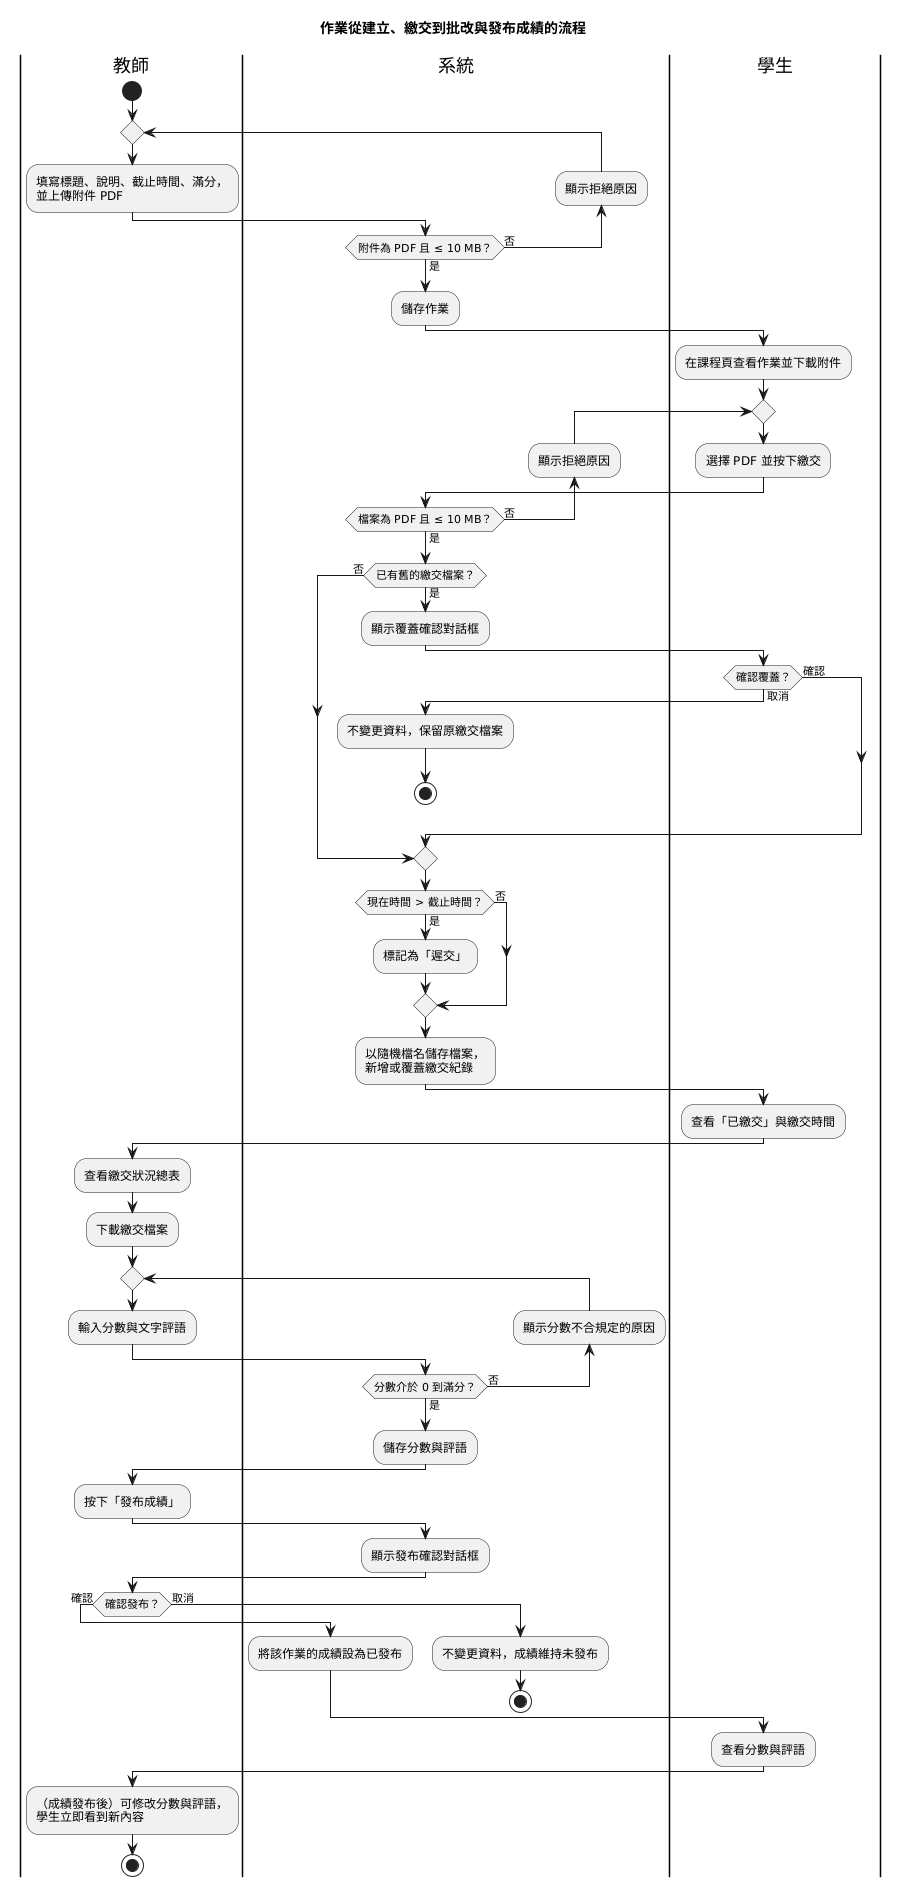
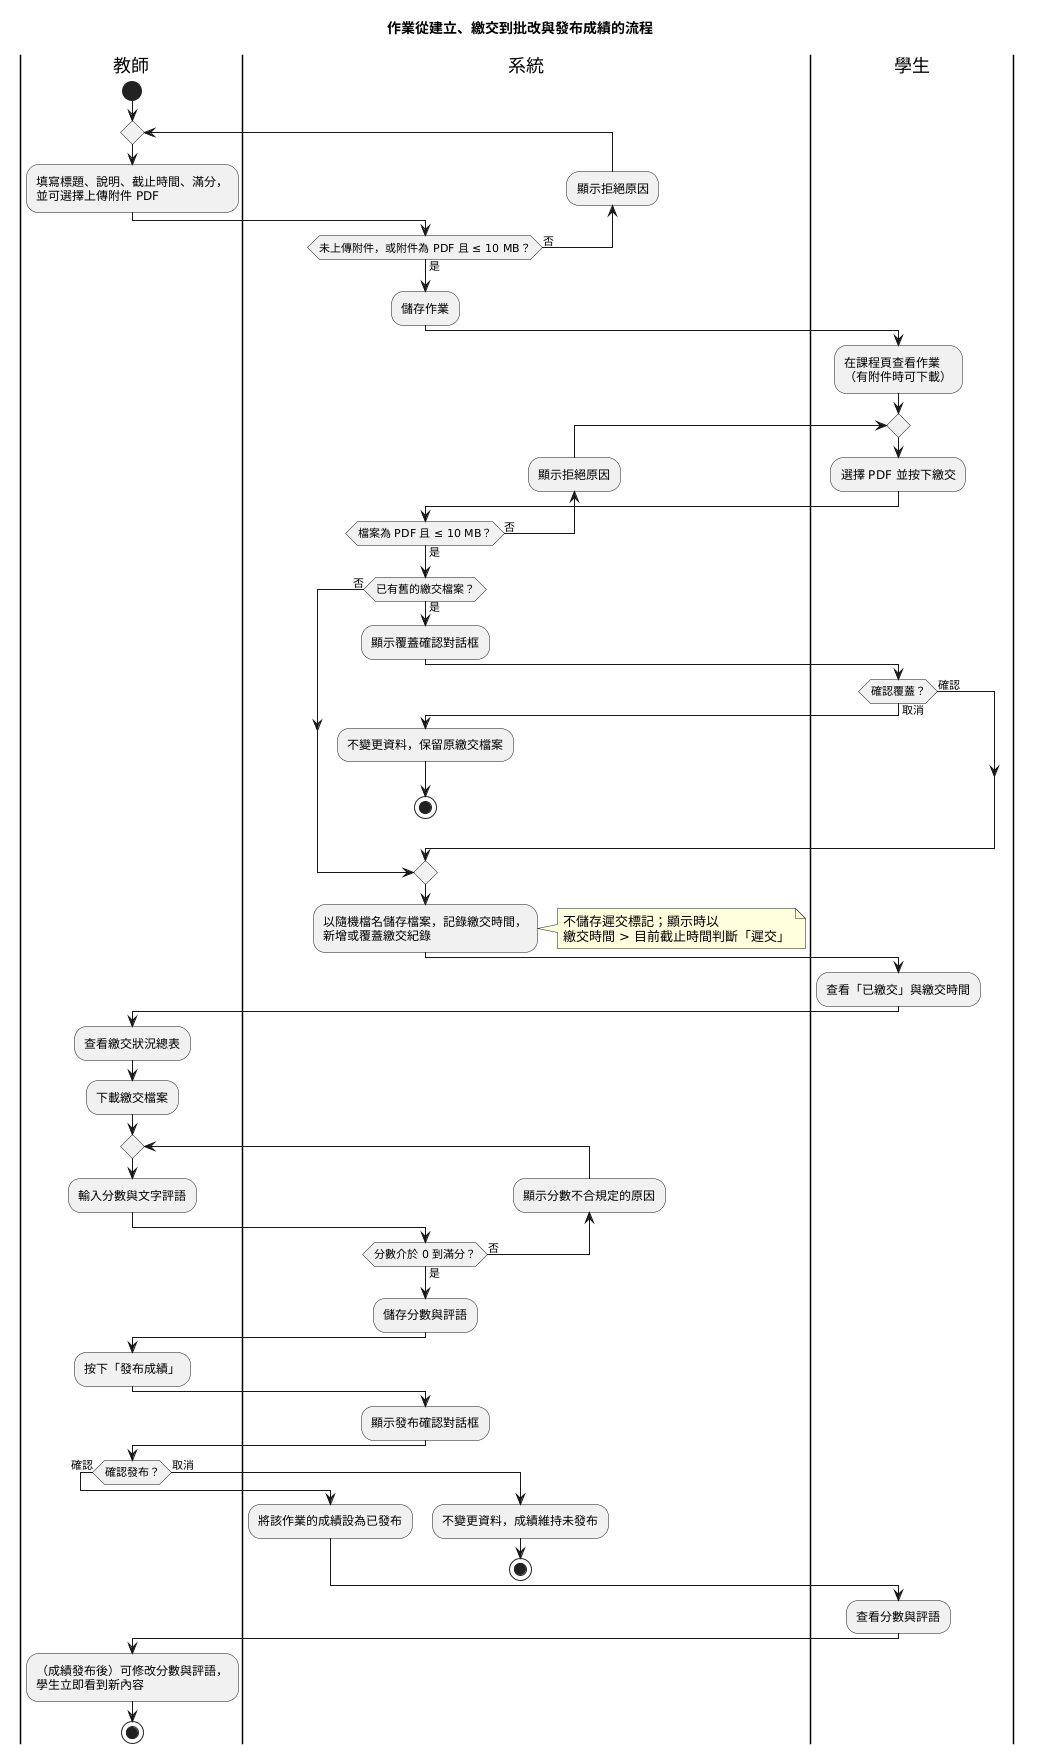
Added architecture document and updated uml for design decisions

diff --git a/docs/architecture.md b/docs/architecture.md
@@ -1,0 +1,208 @@
+# Architecture（架構設計文件）
+
+**Project name：** Mini Moodle
+**Date：** 2026-11-11
+**Version：** 0.1（草稿）
+**By：** SD
+
+本文件依據 SRS v1.0（`docs/SRS.md`）與 UML（`uml/`）描述 Mini Moodle 的架構，作為架構雛形（`src/`）的設計依據。本文件不新增、不修改 SRS 的需求；SRS 未明定、但實作時必須決定的部分，記錄於第 7 章「設計決定」。
+
+## Table of Contents
+
+1. 技術選型
+2. 整體架構
+3. 專案結構
+4. 資料模型
+5. 權限檢查
+6. 檔案上傳與下載
+7. 設計決定（SRS 未明定的部分）
+8. 架構雛形範圍
+
+---
+
+## 1. 技術選型
+
+SRS 未指定技術選型，由 SD 在設計階段決定（DE-4）。選擇原則為「容易理解、方便在報告時說明」。
+
+| 項目 | 選擇 | 理由 |
+| --- | --- | --- |
+| 程式語言 | Python 3.12 | 語法容易閱讀 |
+| 網頁框架 | Django 5.2 LTS | 一個框架即包含網址對應、頁面範本、表單驗證、登入、資料庫與檔案上傳，不需另外組合其他套件 |
+| 資料庫 | SQLite | Python 內建，不需另外安裝資料庫伺服器（EIR-14.1） |
+| 檔案儲存 | 伺服器本機資料夾 | 存放作業附件與繳交檔案（EIR-14.2、DE-3） |
+| 頁面 | Django 範本（伺服器產生 HTML） | SRS 的畫面皆為一般表單與列表，不需要前後端分離 |
+| 前端 | 一般 CSS、少量 JavaScript | JavaScript 只用於密碼顯示／隱藏（EIR-1.2、EIR-2.1）與確認對話框（EIR-12.1、EIR-12.2） |
+
+**不使用的項目：**
+
+| 項目 | 原因 |
+| --- | --- |
+| Flask 或其他網頁框架 | 與 Django 功能重疊，同時使用只會增加需要說明的內容 |
+| React 等前端框架、獨立 API | SRS 沒有需要的畫面，且增加學習成本 |
+| Django 內建管理後台（admin） | 本系統沒有系統管理員角色（D-29） |
+| 電子郵件、第三方登入等外部服務 | 系統不依賴外部服務（EIR-14.4、DE-1、DE-2） |
+
+**撰寫原則（方便報告說明）：**
+
+- 每個功能一個資料夾（Django app）
+- 只使用函式寫法的 view，不使用 class-based view
+- 權限檢查集中在一個檔案（`common/permissions.py`）
+- 程式註解標示對應的需求編號，例如 `# FR-6.1`
+
+## 2. 整體架構
+
+採用 Django 的 MVT 架構（Model–View–Template）。每個功能的請求都依相同路徑處理：
+
+![一次請求的處理流程](../uml/images/waterfall_architecture_uml.png)
+
+原始檔：`uml/puml/architecture.puml`
+
+| 層 | 檔案 | 負責 |
+| --- | --- | --- |
+| 網址對應 | `urls.py` | 決定哪個網址交給哪個 view |
+| 權限檢查 | `common/permissions.py` | 檢查登入狀態、身分、課程成員資格（NFR-SEC-02） |
+| View | `views.py` | 接收請求、呼叫表單與資料模型、選擇要顯示的頁面 |
+| Form | `forms.py` | 檢查使用者輸入，產生錯誤訊息（例如 FR-1.4、FR-3.3、FR-8.9） |
+| Model | `models.py` | 定義資料表與資料規則，對應類別圖 |
+| Template | `templates/` | 產生使用者看到的 HTML 頁面 |
+
+以「發布公告」（FR-6.1）為例：
+
+```python
+@course_teacher_required                      # NFR-SEC-02：只有該課程的教師
+def create_announcement(request, course_id):  # FR-6.1
+    form = AnnouncementForm(request.POST or None)
+    if form.is_valid():
+        form.save_for(course_id)
+        return redirect("course_detail", course_id)
+    return render(request, "announcements/form.html", {"form": form})
+```
+
+## 3. 專案結構
+
+```text
+src/
+├── manage.py                 Django 指令入口（啟動伺服器、建立資料表）
+├── requirements.txt          套件清單
+├── config/                   專案設定（settings.py、根網址 urls.py）
+├── common/                   共用：權限檢查、PDF 檢查、密碼規則
+├── accounts/                 1 註冊、2 登入
+├── courses/                  3 建立與管理課程、4 加入與退出課程、5 課程成員
+├── announcements/            6 公告
+├── board/                    7 留言板
+├── assignments/              8 作業
+├── templates/                共用版面（base.html）、確認對話框
+├── static/                   CSS、JavaScript
+└── uploads/                  上傳的檔案（不放進 Git）
+```
+
+每個功能資料夾內的檔案相同：`models.py`、`forms.py`、`views.py`、`urls.py`、`templates/`。
+
+| 資料夾 | 核心功能 | 對應 FR | 資料模型 | 主要畫面 |
+| --- | --- | --- | --- | --- |
+| `accounts` | 1 註冊、2 登入 | FR-1.x、FR-2.x | User | 註冊頁、登入頁、帳號資訊頁（EIR-1、EIR-2） |
+| `courses` | 3 課程、4 加入退出、5 成員 | FR-3.x、FR-4.x、FR-5.x | Course、Enrollment | 課程列表、管理課程、建立課程、課程頁、課程設定、成員名單（EIR-3 ～ EIR-6） |
+| `announcements` | 6 公告 | FR-6.x | Announcement | 公告表單；公告列表顯示於課程頁（EIR-7） |
+| `board` | 7 留言板 | FR-7.x | Message | 留言板（EIR-8） |
+| `assignments` | 8 作業 | FR-8.x | Assignment、Submission | 作業列表、作業內容、繳交、繳交狀況總表、批改（EIR-9 ～ EIR-11） |
+| `common` | 共用 | NFR-SEC-01、NFR-SEC-02、FR-8.12、FR-8.13 | — | 確認對話框（EIR-12） |
+
+### 3.1 網址規劃
+
+與單一課程有關的網址都以 `/courses/<課程編號>/` 開頭，權限檢查可以直接從網址取得課程。刪除、退出、發布成績等會變更資料的操作，只能透過頁面上的按鈕與確認對話框（EIR-12.1）送出（POST），不能只靠開啟網址執行。
+
+| 網址 | 畫面或操作 | 對應需求 |
+| --- | --- | --- |
+| `/register/` | 註冊 | FR-1.x |
+| `/login/`、`/logout/` | 登入、登出 | FR-2.x |
+| `/account/` | 帳號資訊頁（含登出按鈕） | EIR-2.3 |
+| `/` | 課程列表 | FR-3.9 |
+| `/courses/new/` | 建立課程（教師） | FR-3.1 ～ FR-3.4 |
+| `/courses/manage/` | 管理課程：以課碼加入、退出（學生） | FR-4.1 ～ FR-4.6 |
+| `/courses/<id>/` | 課程頁（課程資訊、課碼、公告） | FR-3.10、FR-3.11、FR-6.3 |
+| `/courses/<id>/settings/` | 課程設定（教師） | FR-3.7、FR-3.8 |
+| `/courses/<id>/members/` | 成員名單、新增學生（教師） | FR-5.x |
+| `/courses/<id>/announcements/...` | 發布、編輯、刪除公告（教師） | FR-6.1、FR-6.2 |
+| `/courses/<id>/board/...` | 留言板、發表、編輯、刪除留言 | FR-7.x |
+| `/courses/<id>/assignments/...` | 作業列表、作業內容、建立、編輯、刪除 | FR-8.1 ～ FR-8.3 |
+| `/courses/<id>/assignments/<id>/submit/` | 繳交作業（學生） | FR-8.4 ～ FR-8.6 |
+| `/courses/<id>/assignments/<id>/submissions/...` | 繳交狀況總表、下載繳交檔案、批改、發布成績（教師） | FR-8.7 ～ FR-8.11、FR-8.14 |
+
+## 4. 資料模型
+
+資料模型與類別圖（`uml/puml/class.puml`）一致，每個類別對應一個 Django model。
+
+| 類別 | 所在資料夾 | 重點 |
+| --- | --- | --- |
+| User | `accounts` | 以 `account`（學號或教職員編號）登入；`role` 為教師或學生，註冊後不可更改（FR-1.3） |
+| Course | `courses` | `courseCode` 不重複；產生時若與現有課碼相同就重新產生（FR-3.5） |
+| Enrollment | `courses` | 同一位學生在同一門課程只有一筆 |
+| Announcement | `announcements` | 屬於一門課程 |
+| Message | `board` | 屬於一門課程，記錄作者 |
+| Assignment | `assignments` | 附件可為空（見 DD-4）；`gradesPublished` 記錄是否已發布成績 |
+| Submission | `assignments` | 每位學生每份作業最多一筆；`isLate` 不儲存，由程式計算（見 DD-2） |
+
+**與需求有關的關聯設計：**
+
+- Submission 與 Message 連到 User 與課程，不連到 Enrollment。學生退出課程時只刪除 Enrollment，繳交與留言都會保留（FR-4.8）。
+- 刪除 Assignment 時，一併刪除其所有 Submission（FR-8.15）。
+- 系統只提供教師手動加入學生（FR-5.3），不提供教師移除學生。
+
+## 5. 權限檢查
+
+登入檢查使用 Django 內建的 LoginRequiredMiddleware：所有頁面預設需要登入，只有註冊頁與登入頁例外（FR-2.5）。其餘權限檢查集中在 `common/permissions.py`，以裝飾器（decorator）加在 view 上。即使頁面已隱藏某個按鈕，伺服器仍會再檢查一次，避免直接輸入網址繞過（NFR-SEC-02）。
+
+| 檢查 | 不符合時 | 對應需求 |
+| --- | --- | --- |
+| 已登入 | 導向登入頁 | FR-2.5 |
+| 身分為教師 | 導回課程列表 | FR-3.1 |
+| 身分為學生 | 導回課程列表 | FR-4.1、FR-8.4 |
+| 為該課程成員 | 導回課程列表 | FR-4.7 |
+| 為該課程的教師 | 導回該課程的課程頁 | FR-3.6 ～ FR-3.8、FR-5.3、FR-6.x、FR-7.5、FR-8.x |
+| 為留言作者 | 導回該課程的課程頁 | FR-7.4 |
+| 網址中的公告、留言、作業、繳交屬於網址中的課程 | 導回該課程的課程頁（不是成員則導回課程列表） | FR-4.7、NFR-SEC-02 |
+
+導回時不另外顯示訊息（見 DD-9）。最後一項檢查可避免使用者修改網址中的編號，存取或繳交到其他課程的資料。
+
+## 6. 檔案上傳與下載
+
+| 項目 | 設計 | 對應需求 |
+| --- | --- | --- |
+| 檔案限制 | 單一 PDF、10 MB 以內；副檔名須為 `.pdf`（見 DD-8），不符合時拒絕並顯示原因 | FR-8.12、FR-8.13、EIR-9.4 |
+| 存放位置 | `src/uploads/`，以隨機檔名儲存，另外記錄原始檔名（類別圖的 `storedName`、`originalName`） | EIR-14.2 |
+| 下載 | 檔案不直接公開，一律透過 view 檢查權限後才傳送，並以原始檔名下載 | NFR-SEC-02、FR-8.3、FR-8.7 |
+| 重新繳交 | 新檔案存好後刪除舊檔案 | FR-8.6 |
+| 刪除作業 | 刪除資料時一併刪除附件與所有繳交檔案（Django 刪除資料時不會自動刪除檔案，需由程式處理） | FR-8.15 |
+
+## 7. 設計決定（SRS 未明定的部分）
+
+以下項目 SRS 沒有寫明，但實作時必須擇一。決定原則與 SRS 相同：「實作最簡單、先做出可用系統」，且不新增 SRS 沒有的功能或畫面。
+
+| 編號 | 項目 | 相關需求 | SRS 未明定之處 | 設計決定 | 理由 |
+| --- | --- | --- | --- | --- | --- |
+| DD-1 | 評分後重新繳交 | FR-8.6、FR-8.8 | 已評分的作業能否重新繳交 | 允許；保留原分數與評語，不另外標示 | FR-8.6 沒有限制；不需額外程式；與 Moodle 預設行為相同 |
+| DD-2 | 遲交判斷 | FR-8.2、FR-8.5 | 修改截止時間後，遲交標記是否改變 | 不儲存遲交標記；顯示時以「繳交時間晚於目前截止時間」判斷，剛好等於截止時間不算遲交 | 修改截止時間後自動正確；與 Moodle 相同；第 6 章「遲交」定義為截止時間「之後」的繳交 |
+| DD-3 | 已退出的學生 | FR-4.8、FR-8.11 | 繳交狀況總表是否列出已退出的學生 | 只列出目前的課程成員；已退出學生的資料保留，重新加入後再次顯示 | 與 Moodle 相同；資料不遺失 |
+| DD-4 | 作業附件 | FR-8.1、FR-8.3、EIR-9.2 | 附件是否必填 | 選填；有附件時才顯示下載按鈕 | 教師可將題目寫在說明中；與 Moodle 相同 |
+| DD-5 | 密碼規則 | NFR-SEC-01 | Django 預設另有密碼規則（例如拒絕常見密碼） | 只使用 NFR-SEC-01 的規則，關閉 Django 預設的其他規則 | 避免拒絕 SRS 允許的密碼 |
+| DD-6 | 密碼儲存與登入逾期 | SRS 4.1、EIR-15.2 | SRS 4.1 寫明本版不設定 | 使用 Django 預設：密碼以雜湊儲存，登入狀態兩週後逾期；不另外設定 | 不新增 SRS 沒有的要求；類別圖已使用 `passwordHash` |
+| DD-7 | 時區 | FR-8.5 | 截止時間與繳交時間使用的時區 | 台灣時間（Asia/Taipei） | 使用者皆在台灣 |
+| DD-8 | PDF 判斷方式 | FR-8.12、FR-8.13 | 如何判斷檔案「不是 PDF」 | 以副檔名判斷，只接受 `.pdf` | Django 的標準做法，與 Moodle 相同；實作最簡單 |
+| DD-9 | 沒有權限或頁面不存在時的處理 | NFR-SEC-02、EIR-12.4 | 只寫「拒絕該操作」，沒有寫畫面如何呈現；也沒有寫網址不存在時如何處理 | 不顯示錯誤頁，直接導回：課程成員導回該課程的課程頁，其他情況（含網址不存在、資料已刪除）導回課程列表；未登入仍依 FR-2.5 導向登入頁 | 正常操作看不到沒有權限的按鈕，只有手動輸入網址才會發生；不需新增錯誤頁面；Django 預設的錯誤頁為英文，不符合 EIR-12.4 |
+
+## 8. 架構雛形範圍
+
+架構雛形的目的是確認上述架構可以運作，不是完成所有功能。
+
+**包含：**
+
+- 可啟動的 Django 專案與第 3 章的資料夾結構
+- 第 4 章所有資料模型與資料表
+- `common/permissions.py` 的所有權限檢查
+- 第 3.1 節所有網址，以及每個畫面的基本頁面
+- 共用版面、確認對話框、密碼顯示／隱藏
+- 一條完整可操作的流程：註冊 → 登入 → 建立課程 → 以課碼加入課程 → 上傳 PDF 並透過權限檢查下載。這條流程涵蓋最容易出問題的部分：自訂使用者、權限、課碼產生、檔案處理
+- 上述流程的自動化測試
+- `src/` 的執行說明
+
+**不包含：** 其餘功能的完整實作，留待實作階段依本文件完成。

diff --git a/ai-log/ai-usage-log.md b/ai-log/ai-usage-log.md
@@ -24,10 +24,13 @@
 | 11/08 | SRS | Claude | 從需求範圍審查 PR #4 第 3、4 章 | 找出 EIR-5.2 與 FR-6.3 不一致、EIR-12.3 超出範圍、六處表單缺按鈕 | RA 決定 EIR-5.2 顯示全部公告、刪除 EIR-12.3 | 不納入 FR 未要求的行為 | RA；QA 複查 | 節省約 30 分鐘 |
 | 11/08 | SRS | Claude | 依 RA 審查意見修改第 3 章 | EIR-5.2、7.1 改為顯示全部公告；刪除 EIR-12.3；EIR-4.1、5.4、7.2、9.3、11.2 補上送出／儲存按鈕，新增 EIR-8.4 | AI 先前建議的「課程頁只顯示最新 3 則公告」被 RA 否決；按鈕名稱由 SD 決定 | 與 FR-6.3 一致；減少實作量；FR 要求的建立、編輯功能需要按鈕 | SD（本人）；PR 由 RA、QA 審查 | 節省約15分鐘 |
 | 11/09 | SRS | Codex | 協助根據 GitHub PR 紀錄整理 SRS 的 Version History、Review History 與 Approval History | 採用版本與審查紀錄的摘要草稿 | Approval History 暫留空白 | PR Approve 不等於 SRS v1.0 簽核，須等三人實際確認後再填 | QA | 節省約15分鐘 |
-| 11/10 | UML | Claude | 依 SRS v1.0 起草使用案例圖、類別圖、作業流程活動圖（PlantUML） | 三張圖的整體結構與流程 | 刪除「驗證教師驗證碼」（SRS 列為未來功能）；移除 FR 編號；修正語法錯誤；調整版面 | 與 SRS v1.0 範圍一致；圖更易閱讀 | SD 對照 SRS 檢查；PR 由 RA、QA 審查 | 節省約 30 分鐘 |
+| 11/10 | UML | Claude | 依 SRS v1.0 起草使用案例圖、類別圖、作業流程活動圖（PlantUML） | 三張圖的整體結構與流程 | 刪除「驗證教師驗證碼」（SRS 列為未來功能）；移除 FR 編號；修正語法錯誤；調整版面 | 與 SRS v1.0 範圍一致；圖更易閱讀 | SD 對照 SRS 檢查；PR 由 RA、QA 審查 | 節省約30分鐘 |
+| 11/11 | 架構雛形 | Claude | 技術選型、SRS 未明定情況的處理、起草架構文件 | Django、SQLite；架構文件與設計決定 DD-1～DD-9 | 不採用 Flask；遲交改為顯示時計算；PDF 只檢查副檔名；沒有權限時直接導回 | 容易理解、實作最簡單、不超出 SRS | SD（本人）；PR 由 QA 審查 | 節省約1小時 |
+| 11/11 | UML | Claude | 依設計決定修改類別圖、活動圖，新增請求流程圖 | 遲交改為計算值、附件改為選填；請求流程圖 | 圖片由 SD 自行匯出 | 與架構文件一致 | SD（本人）；PR 由 QA 審查 | 節省約30分鐘 |
 ## AI 出錯的例子
 
 - AI 一開始宣稱需求追溯矩陣是必交項目，查證作業 PDF 後發現只是建議的 AI 用途，並非必要
 - AI 宣稱 Waterfall 要求每個 PR 都由所有非作者審查，實際上審查規則由團隊自訂（我們定為每個 PR 1 位審查者，階段簽核時 3 人）
 - AI 起草的 FR 遺漏「教師在哪裡看到課碼」（→ FR-3.10），以及「學生查看作業」「教師下載繳交檔案」（→ FR-8.3、FR-8.7），導致作業功能無法運作；RA 追問與檢查時才發現
 - AI 審查 PR #4 時回報 NFR-SEC-02 有亂碼，RA 要求重新檢查後發現是 AI 讀取工具的顯示問題，檔案內容正常
+- AI 建議同時使用 Django 與 Flask，但兩者功能重疊，最後只採用 Django
